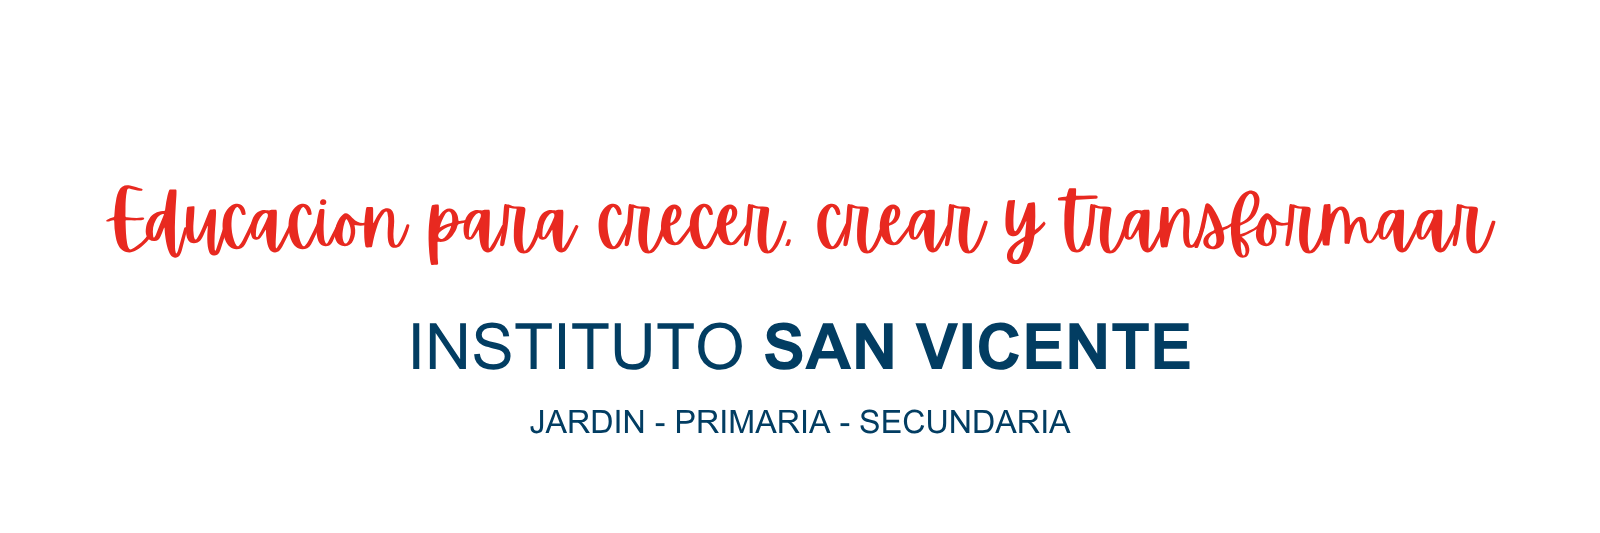
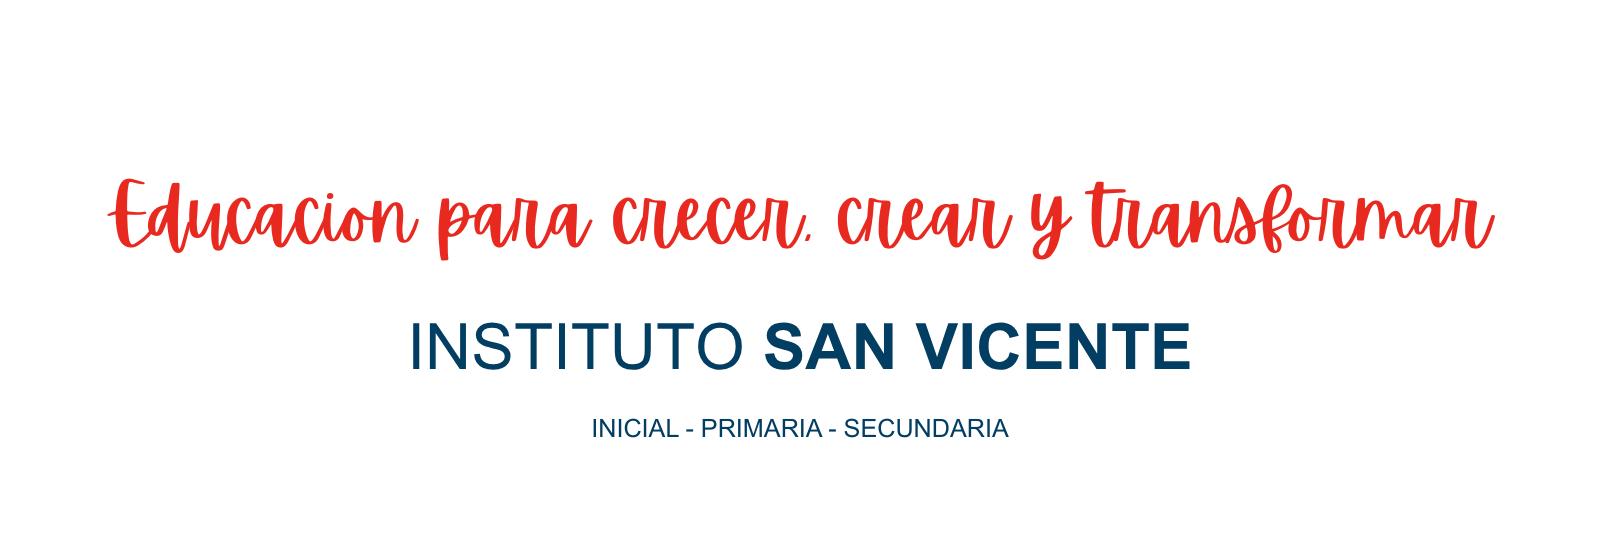
cambios fer

Changed region(s): [[0.0625, 0.3302, 0.9375, 0.5103], [0.3125, 0.7505, 0.6875, 0.8405], [0.0625, 0.3302, 0.0938, 0.3602]]

diff --git a/kinder.html b/kinder.html
@@ -120,15 +120,14 @@
         </h1>
 
         <p class="kinder-intro">
-          Un espacio de descubrimiento, juego y aprendizaje donde cada niño comienza a explorar el mundo con alegría, creatividad y confianza.
+          Un espacio de descubrimiento, juego y aprendizaje donde cada niño/a comienza a explorar el mundo con alegría, creatividad y confianza.
         </p>
 
         <div class="kinder-data-list">
           <p><span>👧</span><strong>Edades:</strong> de 1 a 5 años</p>
           <p><span>🕘</span><strong>Horario:</strong> lunes a viernes de 9:00 a 12:30 hs</p>
           <p><span>🗓</span><strong>Opciones:</strong> pre y post hora, horario extendido hasta las 16:00 hs</p>
-          <p><span>🎨</span><strong>Espacio lúdico:</strong> de 13:00 a 16:00 hs para niños de 2 y 3 años</p>
-          <p><span>♡</span><strong>Modalidad:</strong> acompañamiento integral y personalizado</p>
+          <p><span>🎨</span><strong>Espacio de talleres:</strong> de 13:30 a 16:00 hs</p>
         </div>
 
         <a href="contacto.html" class="kinder-main-btn">
@@ -151,7 +150,7 @@
 
         <div class="proposal-points">
           <p><i>🕘</i> El Nivel Inicial funciona de lunes a viernes de 9:00 a 12:30 hs, con opciones de pre y post hora y modalidad de horario extendido hasta las 16:00 hs.</p>
-          <p><i>👧</i> El espacio lúdico, destinado a niños de 2 y 3 años, ofrece un ambiente pensado para compartir, disfrutar y crecer.</p>
+          <p><i>🎨</i> el espacio de talleres ofrece un ambiente pensado para compartir, disfrutar y crecer.</p>
           <p><i>♡</i> Nuestra propuesta integra inglés, deportes, arte, educación emocional y cultura, promoviendo una formación integral desde los primeros años.</p>
         </div>
       </div>
@@ -178,7 +177,7 @@
   <section class="kinder-final-cta">
     <div>
       <h2>Sumate al Nivel Inicial</h2>
-      <p>Coordiná una entrevista con nuestro equipo y conocé de cerca nuestra propuesta educativa.</p>
+      <p>Cordiná una entrevista con el equipo directivo y conocé de cerca nuestra propuesta educativa.</p>
       <a href="contacto.html">SOLICITAR ENTREVISTA <span>›</span></a>
     </div>
   </section>

diff --git a/js/i18n.js b/js/i18n.js
@@ -6,7 +6,7 @@ const translations = {
     "nav.institution": "INSTITUCIÓN",
     "nav.english": "INGLÉS",
     "nav.academicLevels": "NIVELES ACADÉMICOS",
-    "nav.kinder": "JARDÍN",
+    "nav.kinder": "INICIAL",
     "nav.primary": "PRIMARIA",
     "nav.highschool": "SECUNDARIA",
     "nav.clubSanvi": "CLUB SANVI",
@@ -55,7 +55,7 @@ const translations = {
     "home.beginnings.photo4Alt": "Espacios iniciales del Instituto San Vicente",
 
     "home.cta.title": "Inscripción: Ciclo Lectivo 2027",
-    "home.cta.text": "Solicitá una entrevista con nuestro equipo directivo y conocé nuestra propuesta de Nivel Inicial, Primario y Secundario.",
+    "home.cta.text": "Solicitá una entrevista con el equipo directivo y conocé nuestra propuesta de nivel inicial, primario y secundario.",
     "home.cta.button": "SOLICITAR ENTREVISTA",
 
     "footer.address.title": "Dirección",
@@ -156,7 +156,7 @@ const translations = {
     "levels.kinder.imageAlt": "Nivel Inicial",
     "levels.kinder.label": "Nivel Inicial",
     "levels.kinder.title": "Jardín",
-    "levels.kinder.text": "Jardín de Infantes de lunes a viernes de 9:00 a 12:30 hs, con posibilidad de pre y post hora, horario extendido hasta las 16:00 hs y espacio lúdico de 13:00 a 16:00 hs para niños de 2 y 3 años.",
+    "levels.kinder.text": "Funciona de lunes a viernes de 9:00 a 12:30 hs, con servicio de pre hora desde las 8:00 hs, post hora hasta las 13:30 hs y jornada extendida hasta las 16:00 hs.",
 
     "levels.primary.imageAlt": "Nivel Primario",
     "levels.primary.label": "Nivel Primario",

diff --git a/Academic-Levels.html b/Academic-Levels.html
@@ -89,7 +89,7 @@
       </div>
 
       <div class="level-card-content">
-        <span class="level-label" data-i18n="levels.kinder.label">Nivel Inicial</span>
+
         <h3 class="inicios-titulo">
         <img 
           src="assets/img/textos-png/Jardin.png"
@@ -118,7 +118,7 @@
       </div>
 
       <div class="level-card-content">
-        <span class="level-label" data-i18n="levels.primary.label">Nivel Primario</span>
+
         <h3 class="inicios-titulo">
         <img 
           src="assets/img/textos-png/primaria.png"
@@ -147,7 +147,6 @@
       </div>
 
       <div class="level-card-content">
-        <span class="level-label" data-i18n="levels.highschool.label">Nivel Secundario</span>
         <h3 class="inicios-titulo">
         <img 
           src="assets/img/textos-png/high-school.png"

diff --git a/index.html b/index.html
@@ -239,7 +239,7 @@
         >
       </h2>
 
-      <span class="inicios-etiqueta" data-i18n="home.beginnings.year">2014</span>
+
     </div>
 
     <div class="inicios-bloque">
